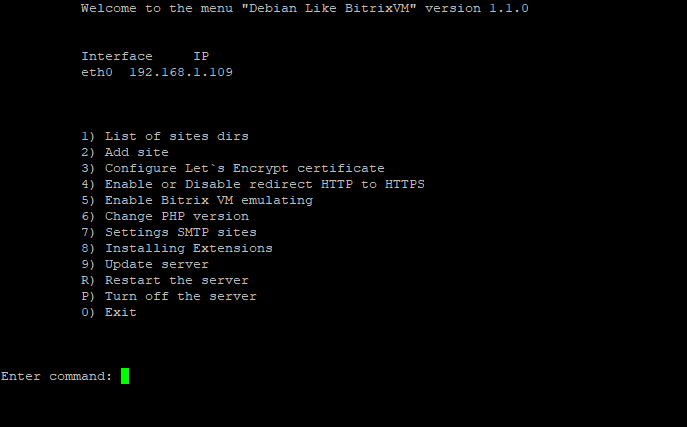
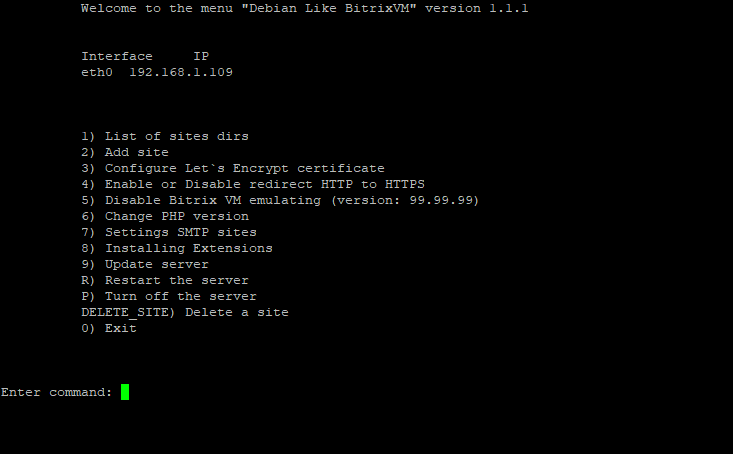
Released new version

diff --git a/vm_menu/helpers/php/get_database_data.php b/vm_menu/helpers/php/get_database_data.php
@@ -1,0 +1,11 @@
+<?php
+
+$path_to_settings_file = "{$argv[1]}/.settings.php";
+
+$data = require_once $path_to_settings_file;
+
+$db_name = $data['connections']['value']['default']['database'];
+$db_user = $data['connections']['value']['default']['login'];
+
+echo "$db_name\n";
+echo "$db_user\n";

diff --git a/README.md b/README.md
@@ -15,6 +15,7 @@
 # Возможности меню
 - Показывать список сайтов
 - Создавать сайты, как полноценные, так и на символических ссылках
+- Удаление сайтов, как полноценных, так и на символических ссылках 
 - При создании полноценного сайта агенты автоматически переводятся на CRON
 - Выпускать SSL Let`s Encrypt сертификаты
 - Включать и выключать редирект с HTTP на HTTPS протокол
@@ -60,6 +61,17 @@
 ![Обновление](images/new_version.png)
 
 Также предусмотрен функционал информирования о том, что вышла новая версия меню, обновление происходит через скрипт (описание выше) или вы можете вбить команду `update_menu`. Также вы можете использовать этот скрипт или команду `update_menu`, если вы экспериментировали с меню и что-то сломали - просто запустите его и он восстановит исходную версию.
+
+# Донат: Отблагодарить автора
+Отблагодарить автора можно по этим реквизитам:<br>
+Т-Банк (Тинькофф):
+```2200700453633884```
+
+Сбербанк:
+```2202202392509430```
+
+ВТБ:
+```2200240274990312```
 
 # Поддержка, вопросы, предложения
 [https://t.me/DebianLikeBitrixVM](https://t.me/DebianLikeBitrixVM)

diff --git a/CHANGELOG.md b/CHANGELOG.md
@@ -1,5 +1,16 @@
 # Changelog
 Все значимые изменения, доработки и новый функционал в этом проекте будут задокументированы в этом файле.
+## 1.1.1 - 01.08.2024 - Вышла новая версия меню
+### Добавлено
+- Удаление сайта
+- Константа BX_TEMPORARY_FILES_DIRECTORY и директории под нее
+- Приоритет отдачи WEBP файлов, если файл есть с таким расширением (img.jpg и img.jpg.webp - при обращении к img.jpg будет отдан img.jpg.webp)
+### Изменено
+- Все символические ссылки связанные с сайтом будут создаваться от пользователя и группы www-data
+- Пароли будут содержать спецсимволы
+### Фикс багов
+- Устранение незначительных багов и небольшие улучшения
+
 ## 1.1.0 - 22.07.2024 - Вышла новая версия меню
 ### Добавлено
 - Добавлена возможность настройки SMTP для сайтов
